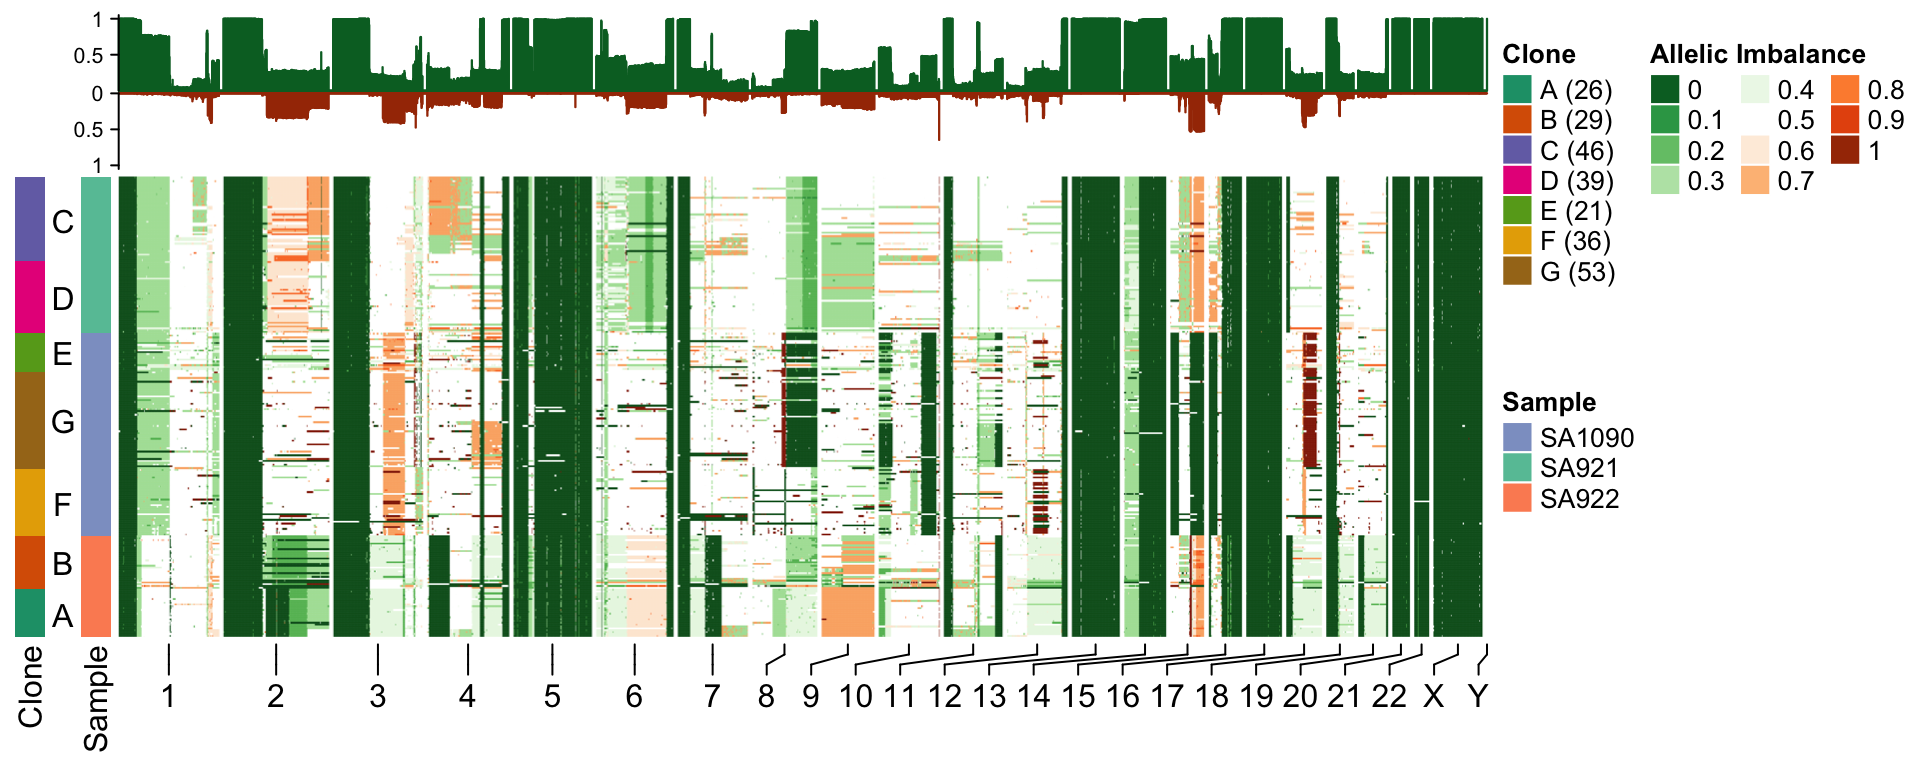
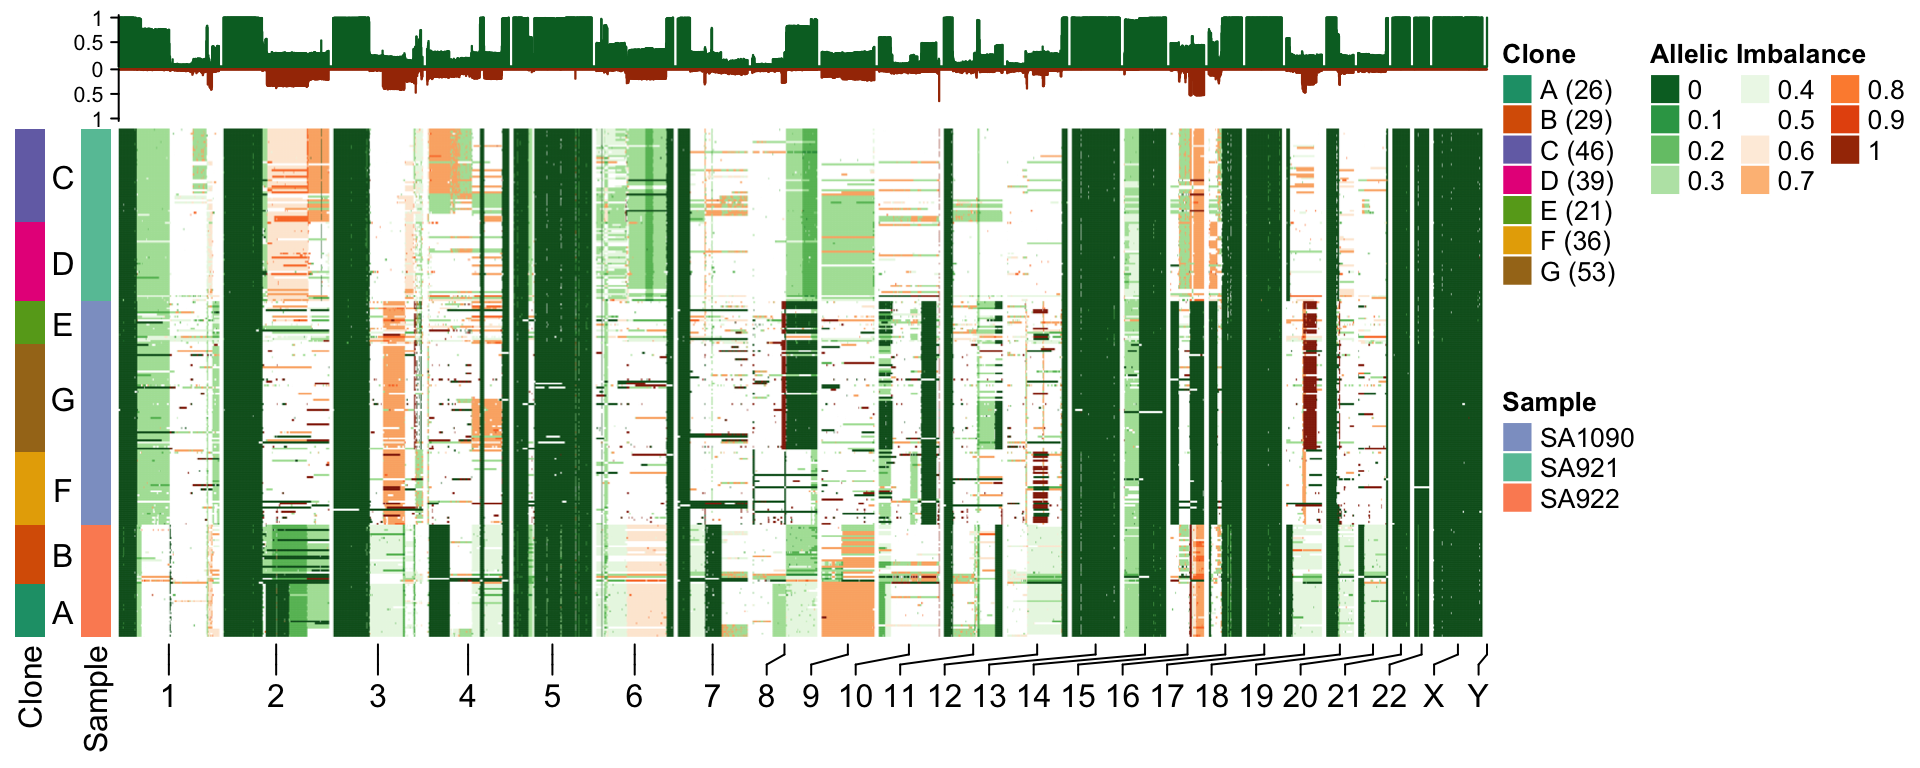
Built site for schnapps: 0.1.0@d1ab642

diff --git a/articles/ASCN.html b/articles/ASCN.html
@@ -185,7 +185,7 @@
 <p><img src="ASCN_files/figure-html/unnamed-chunk-15-1.png" width="960"></p>
 <p>In the discrete version of this plot we see similar patterns.</p>
 <div class="sourceCode" id="cb16"><html><body><pre class="r"><span class="fu"><a href="https://rdrr.io/r/base/Random.html">set.seed</a></span>(<span class="fl">1</span>)
-<span class="fu">plotHeatmap</span>(<span class="no">hscn</span>, <span class="kw">plotcol</span> <span class="kw">=</span> <span class="st">"state_phase"</span>, <span class="kw">plottree</span> <span class="kw">=</span> <span class="fl">FALSE</span>, <span class="kw">spacer_cols</span> <span class="kw">=</span> <span class="fl">15</span>)</pre></body></html></div>
+<span class="fu">plotHeatmap</span>(<span class="no">hscn</span>, <span class="kw">plotcol</span> <span class="kw">=</span> <span class="st">"state_phase"</span>, <span class="kw">plottree</span> <span class="kw">=</span> <span class="fl">FALSE</span>, <span class="kw">spacer_cols</span> <span class="kw">=</span> <span class="fl">15</span>, <span class="kw">plotfrequency</span> <span class="kw">=</span> <span class="fl">TRUE</span>)</pre></body></html></div>
 <p><img src="ASCN_files/figure-html/unnamed-chunk-16-1.png" width="960"></p>
 <div class="sourceCode" id="cb17"><html><body><pre class="r"><span class="fu">plotCNprofileBAF</span>(<span class="no">hscn</span>)</pre></body></html></div>
 <p><img src="ASCN_files/figure-html/unnamed-chunk-17-1.png" width="960"></p>
